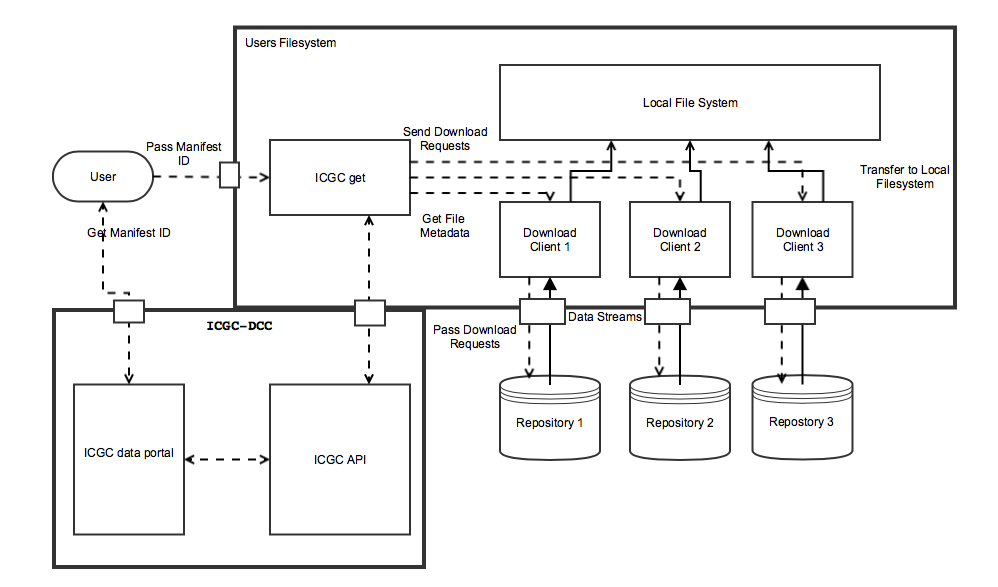
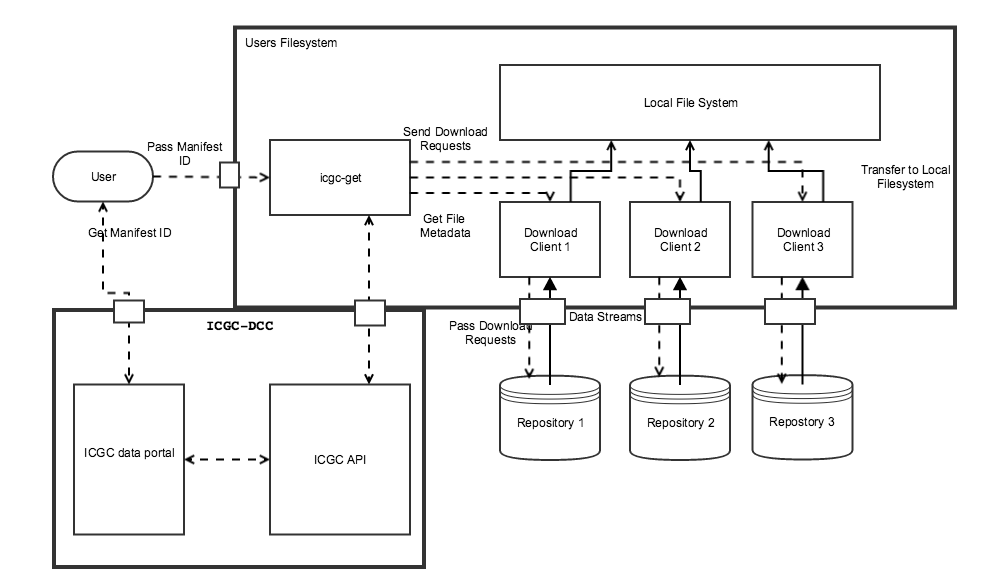
Added text to environment diagrams, updated environment diagrams for branding and accuracy

diff --git a/docs/cloud/icgc-get.md b/docs/cloud/icgc-get.md
@@ -294,13 +294,21 @@ Clients:
  ICGC Storage Client Version: 1.0.13
 ```
 
-## Inernal Structure
+
+
+## Internal Structure
 Below are a pair of diagrams demonstrating the processes that `icgc-get` undergoes during it's operation.
 
 ###`icgc-get` Environment Diagram
 
-[![](images/ICGC_get_standard.png)](images/ICGC_get_standard.png "Click on the image to see it in full")
+[![](images/icgc_get_standard.png)](images/icgc_get_standard.png "Click on the image to see it in full")
+
+In the default orientation, all of the download clients are found in the user's file system.  This enables icgc-get to directly commnicate with the donwload clients, and for the clients to directly place their output into the local filesytem.
+
+  
 
 ###`icgc-get` Environment Diagram using Docker
 
-[![](images/ICGC_get_docker.png)](images/ICGC_get_docker.png "Click on the image to see it in full")
+[![](images/icgc_get_docker.png)](images/icgc_get_docker.png "Click on the image to see it in full")
+
+However, when the client is run using docker, the download clients are no longer directly accessible, as they are in a separate linux container.  To communicate with them, icgc-get needs to use the Docker daemon as an intermediary.  Then, when the the download clients recieve the files they are unable to directly place them into the local filesystem.  They isntead place them in a special mounted directory, which is shared between the Linux container and the local filesystem.  icgc-get, is monitoring the docker daemon for a signal that the download client has finished working, and upon that signal, moves all of the files in the mounted directory to their proper place in the local filesystem.   
